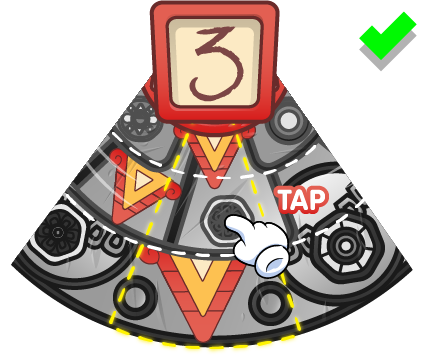
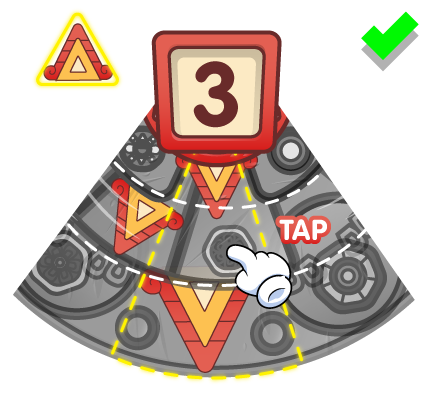
Calendrigon, new tutorial

diff --git a/newStructure/minigames/calendrigon/js/scenes/calendrigon.js b/newStructure/minigames/calendrigon/js/scenes/calendrigon.js
@@ -649,12 +649,12 @@ var calendrigon = function(){
         screen = sceneGroup.create(game.world.centerX , game.world.centerY - 150, 'atlas.calendrigon', 'screen')
         screen.anchor.setTo(0.5, 0.5)
         
-        var fontStyle = {font: "80px VAGRounded", fontWeight: "bold", fill: "#FFFFFF", align: "center"}
+        var fontStyle = {font: "85px VAGRounded", fontWeight: "bold", fill: "#900000", align: "center"}
         
         var name = new Phaser.Text(sceneGroup.game, 0, 10, '', fontStyle)
         name.anchor.setTo(0.5)
-        name.stroke = "#191A4F"
-        name.strokeThickness = 10
+        //name.stroke = "#191A4F"
+        //name.strokeThickness = 10
         screen.addChild(name)
         screen.text = name
     }
